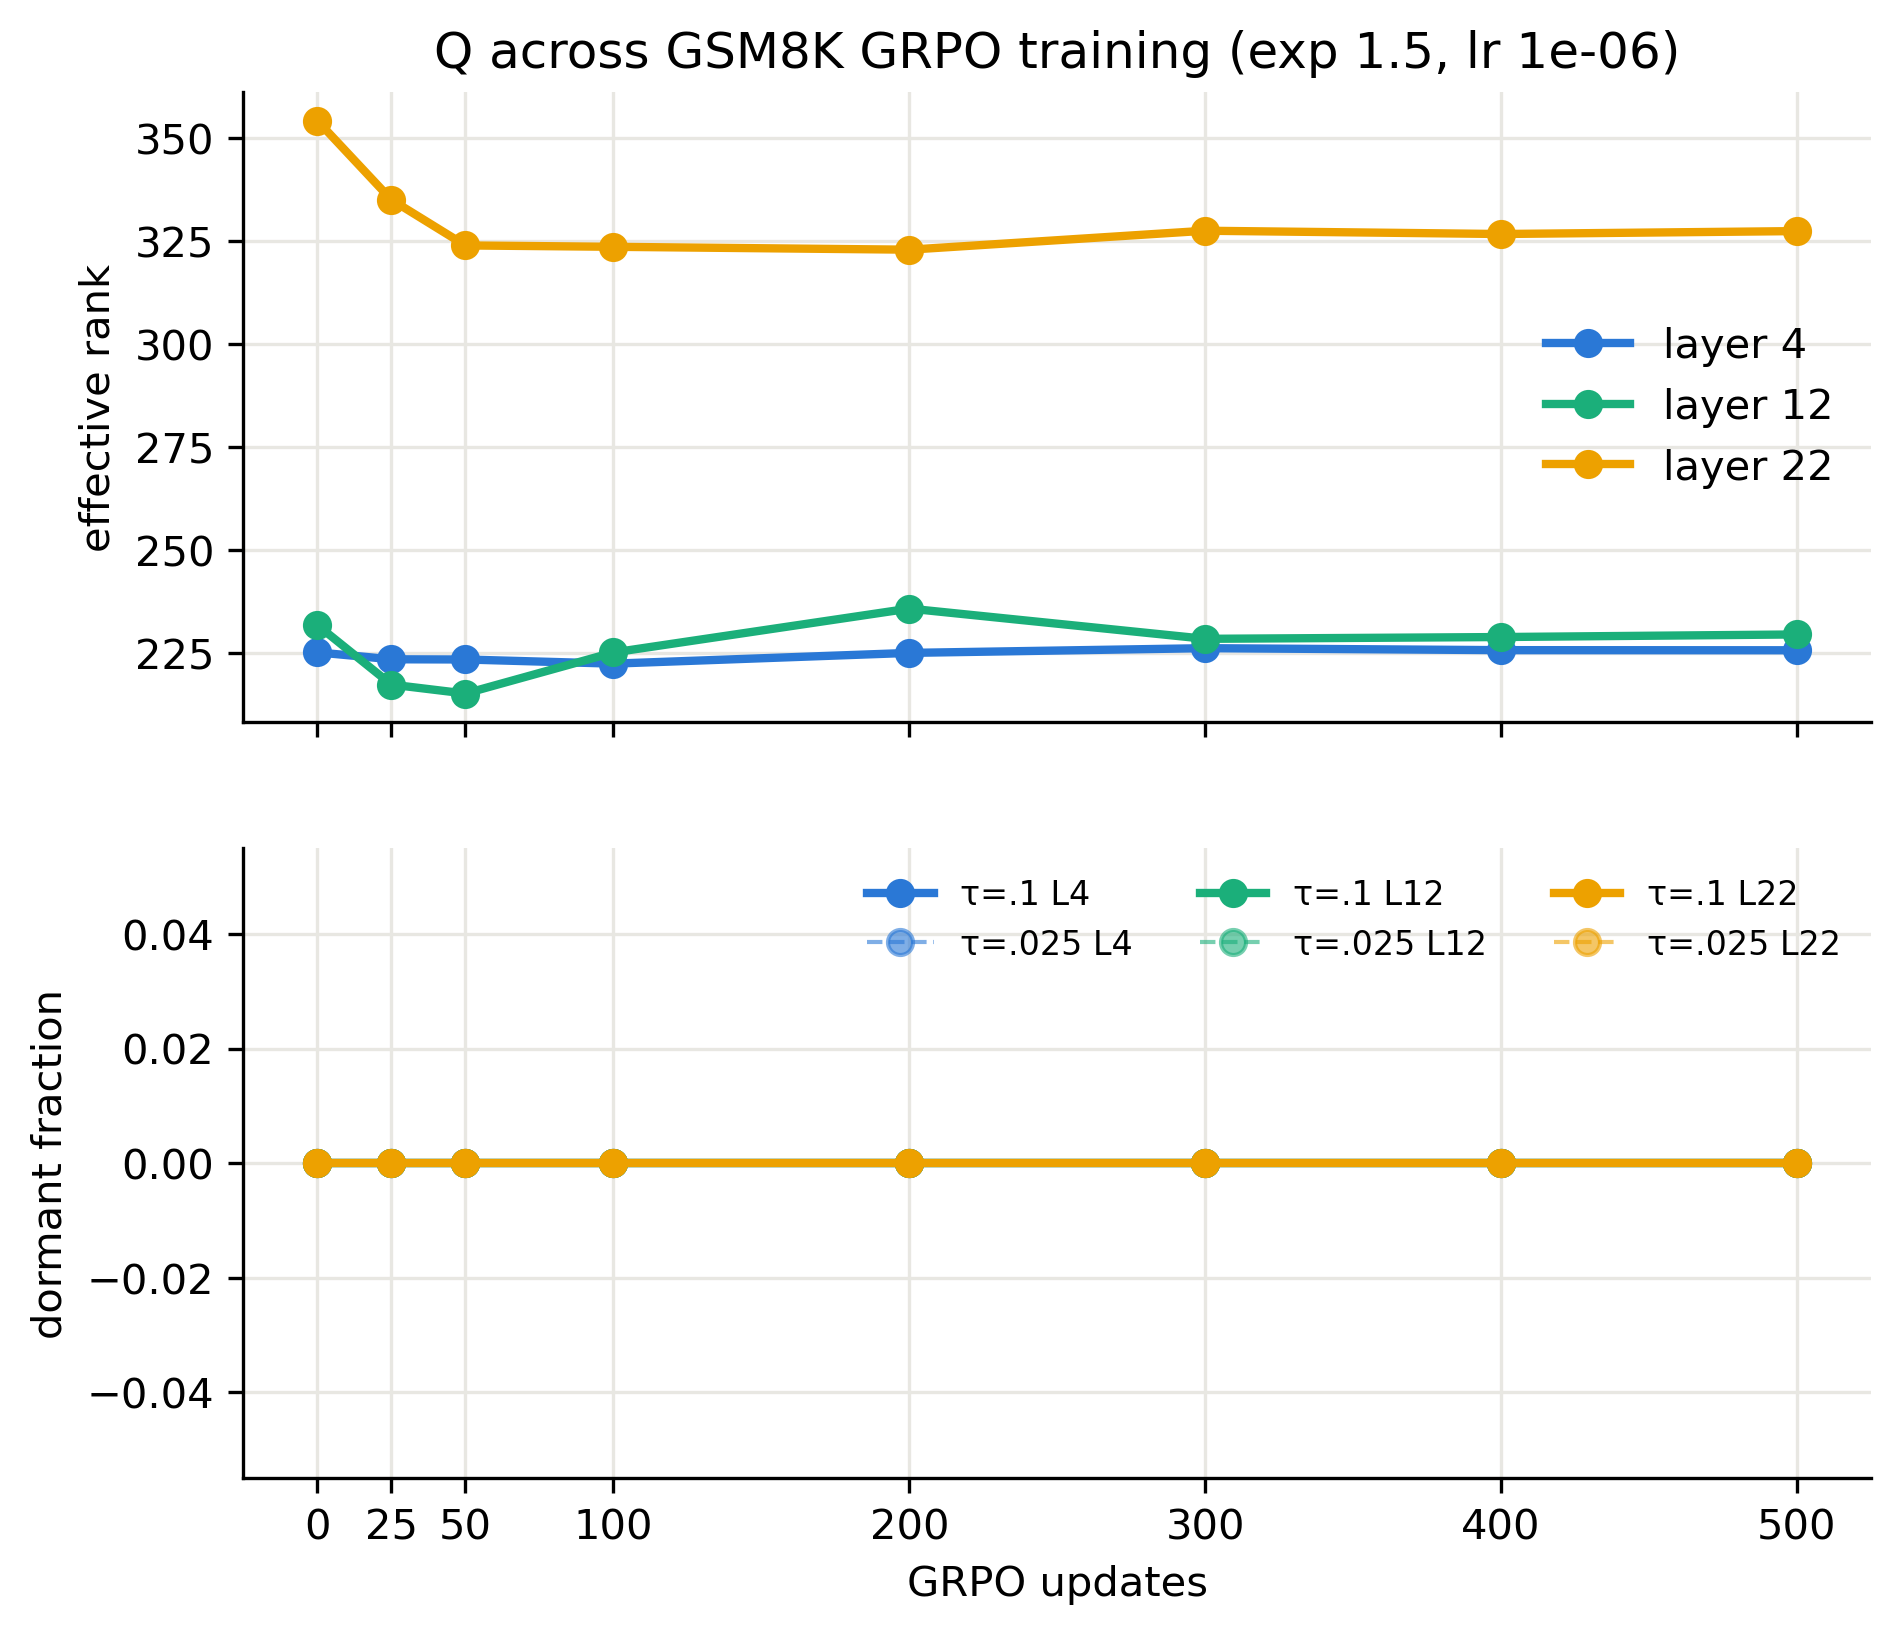
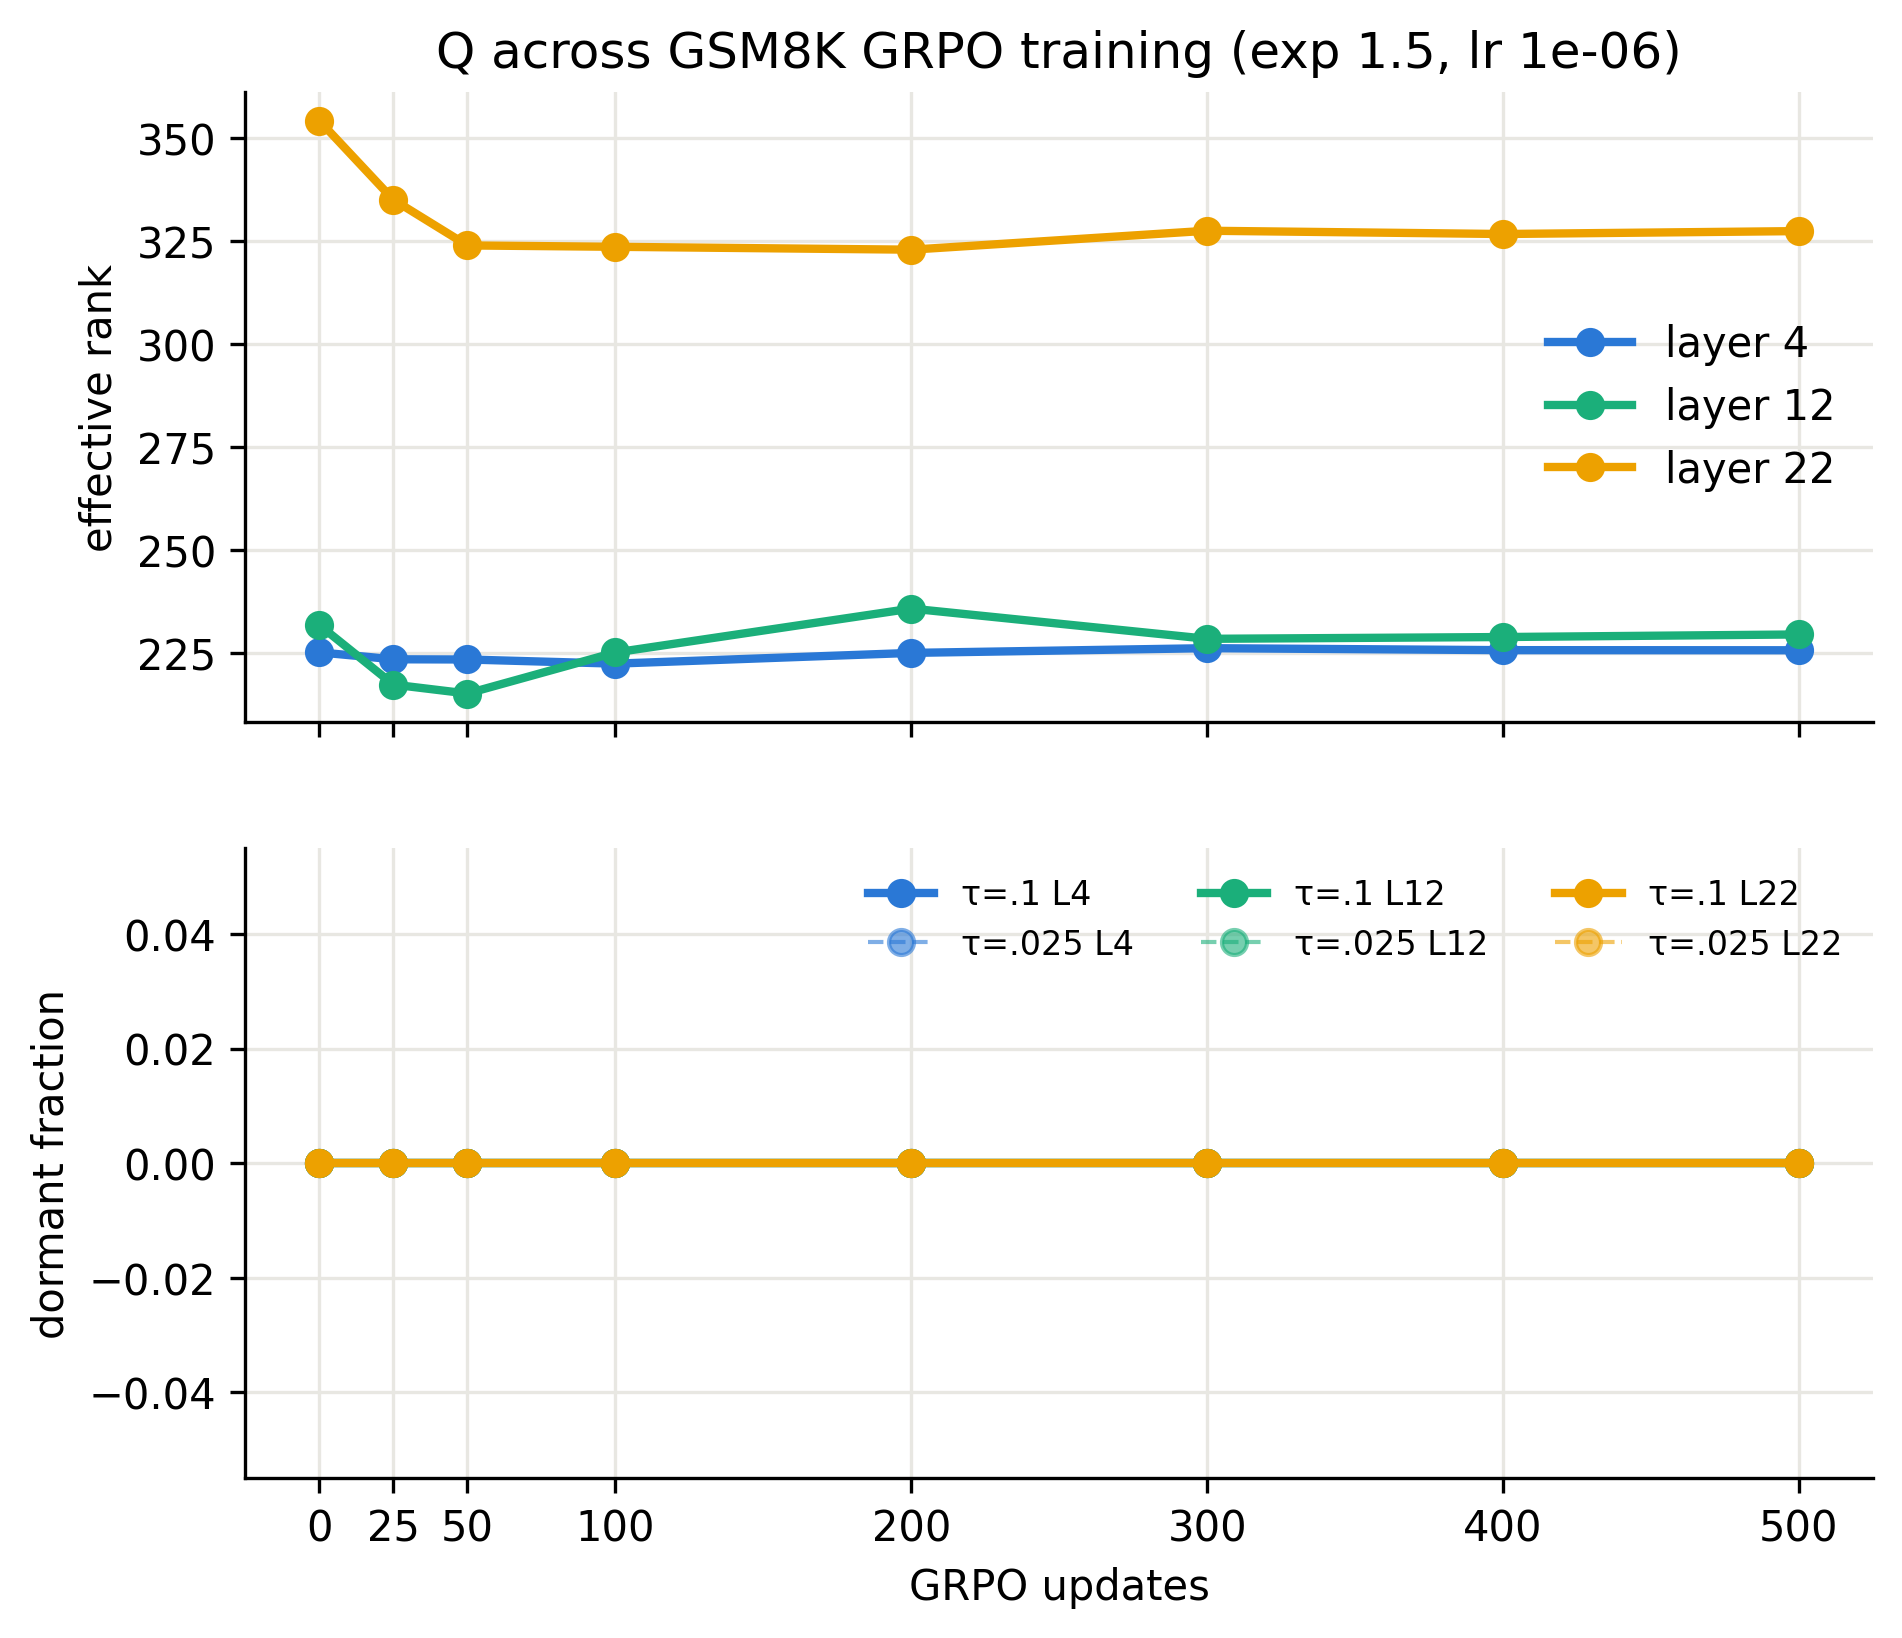
Run Experiment 1.5 v3 float32 Phase 4 analysis

diff --git a/eaaj-pilot/compute_log.md b/eaaj-pilot/compute_log.md
@@ -87,3 +87,4 @@ Notes:
 | v3 float32 recovery isolated cells | RTX 4070 Laptop (CUDA) | continuing | seed42/ckpt50 completed 50/50 in a fresh process with nonzero reward variance, final clipping 1.56%, and no safety_stop; seed43/ckpt50 launched next as an isolated process. |
 | v3 float32 recovery validator audit | RTX 4070 Laptop | partial | project validator confirmed 13/18 expected Phase 3 cells complete; five summaries were still missing: seed43/ckpt100, seed44/ckpt100, and ckpt300 for seeds 42, 43, and 44. The preserved OOM directory is excluded from the expected matrix. |
 | v3 float32 recovery Phase 3 completion | RTX 4070 Laptop (CUDA) | completed 2026-07-18 16:59 | all 18 pre-registered cells (`ckpt 0,50,100,200,300,500 × seeds 42,43,44`) passed the project validator; no cell has `safety_stop.json`; final seed44/ckpt300 completed 50/50. Five missing cells were completed as isolated fresh-process reruns with `PYTORCH_CUDA_ALLOC_CONF=expandable_segments:True` after the original loop hit CUDA OOM at seed42/ckpt100. OOM and launcher-correction directories/logs remain preserved. `phase3_complete.json` written. Phase 4 not run. |
+| v3 float32 Phase 4 analysis | RTX 4070 Laptop (CPU analysis) | 1.3 min, completed 2026-07-20 00:10 | formal Phase 4 ran against the completed v3 float32 run; generated `analysis/analysis_summary.json`, result tables, Spearman tables, and three figures. MC1 failed (`erank_L12` relative change -0.00976 vs 0.10 threshold); MC2 passed (maximum mean-delta drop 0.08556 vs 0.05 threshold); primary Spearman rho=0.6, p=0.208; `rq1_primary_interpretable=true`. GPU telemetry and transcript copied under the run `telemetry/` directory. |
